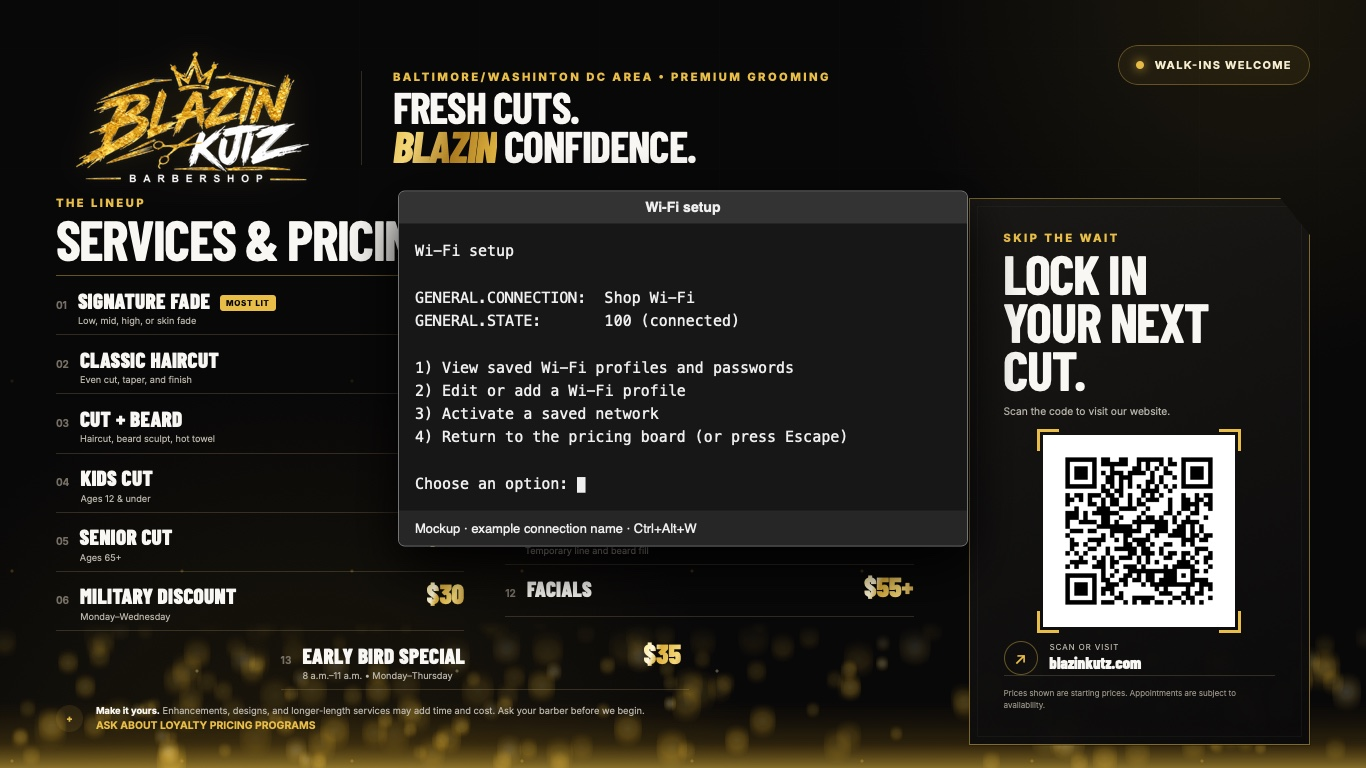
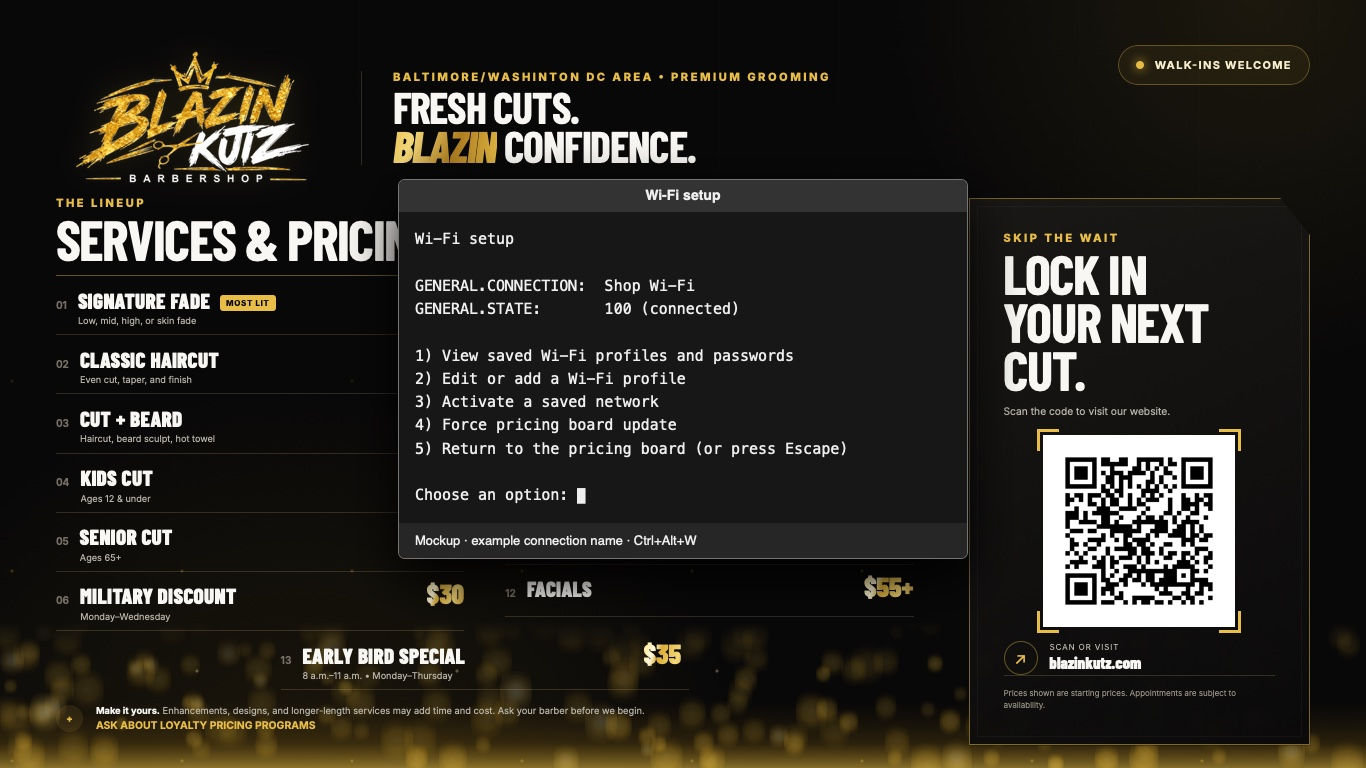
Add manual pricing board sync to the kiosk menu

diff --git a/kiosk/README.md b/kiosk/README.md
@@ -8,10 +8,10 @@ Both programs can flash this prebuilt kiosk image. Use whichever you already hav
 
 **Recommended card: 32 GB high-endurance microSD.** This gives Raspberry Pi OS updates, logs, and saved kiosk versions room to grow. Raspberry Pi also recommends at least 32 GB for its desktop OS. [Raspberry Pi storage guidance](https://www.raspberrypi.com/documentation/computers/getting-started.html#recommended-minimum-storage-requirements)
 
-Put `BlazinKutz-Pi5-Kiosk-WayVNC.img` and its `.sha256` companion in the same folder. On macOS, open Terminal in that folder and verify the download:
+Put `BlazinKutz-Pi5-Kiosk-ManualSync.img` and its `.sha256` companion in the same folder. On macOS, open Terminal in that folder and verify the download:
 
 ```sh
-shasum -a 256 -c BlazinKutz-Pi5-Kiosk-WayVNC.img.sha256
+shasum -a 256 -c BlazinKutz-Pi5-Kiosk-ManualSync.img.sha256
 ```
 
 Proceed when it reports `OK`.
@@ -19,14 +19,14 @@ Proceed when it reports `OK`.
 ### Option A: balenaEtcher
 
 1. Open [balenaEtcher](https://etcher.balena.io/) and insert the microSD card.
-2. Click **Flash from file** and select `BlazinKutz-Pi5-Kiosk-WayVNC.img`.
+2. Click **Flash from file** and select `BlazinKutz-Pi5-Kiosk-ManualSync.img`.
 3. Click **Select target** and choose the microSD card.
 4. Click **Flash!** and approve the operating system prompt if shown. Wait for writing and validation to finish.
 
 ### Option B: Raspberry Pi Imager
 
 1. Open [Raspberry Pi Imager](https://www.raspberrypi.com/software/) and insert the microSD card.
-2. Select **Raspberry Pi 5** as the device. Under OS, choose **Use custom** and select `BlazinKutz-Pi5-Kiosk-WayVNC.img`.
+2. Select **Raspberry Pi 5** as the device. Under OS, choose **Use custom** and select `BlazinKutz-Pi5-Kiosk-ManualSync.img`.
 3. Under Storage, select the microSD card. If prompted, choose **Skip customisation**. This image already includes its first-boot setup.
 4. Confirm the write and wait for verification to finish.
 
@@ -82,8 +82,9 @@ Your Tailscale identity authorizes SSH. There is no root password, SSH password,
 1. Insert the card in the Pi 5 and connect HDMI and power. Let the initial provisioning and automatic reboot finish. The board runs from the Pi even if Wi-Fi or Tailscale is unavailable.
 2. Turn off any auto-off or eco timer on the TV itself. The Pi kiosk is configured to stay awake.
 3. If Wi-Fi changes, plug in a keyboard and press **Ctrl+Alt+W**. The board runs behind the menu. Choose **View saved Wi-Fi profiles and passwords** to see the active connection name and saved Wi-Fi settings. Passwords are visible on the TV while that option is open. Press Enter to hide them. Choose **Edit or add a Wi-Fi profile**, then select an existing profile or choose **Add → Wi-Fi**. Enter the SSID and security settings, set the password, and save. Choose **Activate a saved network** to connect. If the new profile fails, select your previous network.
-4. Press **Escape** from any Wi-Fi menu screen to close the window and discard edits still in the open form. Changes already saved or activation already submitted are kept. To save first, choose **OK** inside the editor before pressing Escape.
-5. If you skipped Tailscale or its key expires before use, shut down the Pi, put a fresh `tailscale.key` on **bootfs**, and boot again. No reflash is needed.
+4. Choose **Force pricing board update** to sync immediately. When the sync finishes or times out, the Wi-Fi window shows **Update Successful: No New Updates**, **Update Successful: Board Updated**, or **Update failed** for seven seconds, then returns to the menu. If the sync fails, the last working board stays on screen.
+5. Press **Escape** from any Wi-Fi menu screen to close the window and discard edits still in the open form. Changes already saved or activation already submitted are kept. To save first, choose **OK** inside the editor before pressing Escape.
+6. If you skipped Tailscale or its key expires before use, shut down the Pi, put a fresh `tailscale.key` on **bootfs**, and boot again. No reflash is needed.
 
 After SSH is working, check Wi-Fi, Tailscale, and the local display service with:
 
@@ -107,7 +108,7 @@ scp kiosk/{wifi-menu,wifi-menu-ui,49-blazin-wifi.rules,install-wifi-menu.sh} kio
 ssh kioskadmin@PI_NAME 'sudo bash ~/install-wifi-menu.sh'
 ```
 
-Close any open Wi-Fi menu and press **Ctrl+Alt+W** again. This installs the menu and a NetworkManager permission rule scoped to the active local kiosk account. The rule allows that account to manage NetworkManager profiles, so use the editor on the dedicated kiosk.
+Close any open Wi-Fi menu and press **Ctrl+Alt+W** again. This installs the menu and permissions scoped to the active local kiosk account. The manual sync permission only allows starting `blazin-update.service`. The rule allows that account to manage NetworkManager profiles, so use the editor on the dedicated kiosk.
 
 ### TV setup
 
@@ -160,7 +161,7 @@ Use Python 3.11+, Git and mtools. Install xz if you want a compressed output. Ru
 ```sh
 curl -fLO https://downloads.raspberrypi.com/raspios_arm64/images/raspios_arm64-2026-10-06/2026-10-06-raspios-trixie-arm64.img.xz
 curl -fLO https://pkgs.tailscale.com/stable/tailscale_1.104.7_arm64.tgz
-python3 kiosk/build-image.py 2026-10-06-raspios-trixie-arm64.img.xz tailscale_1.104.7_arm64.tgz BlazinKutz-Pi5-Kiosk-WayVNC.img
+python3 kiosk/build-image.py 2026-10-06-raspios-trixie-arm64.img.xz tailscale_1.104.7_arm64.tgz BlazinKutz-Pi5-Kiosk-ManualSync.img
 ```
 
 Use the generated SHA-256 file to check the image before flashing. Use an output name ending in `.img.xz` for a compressed build. Never add real provisioning files or disk images to Git.
